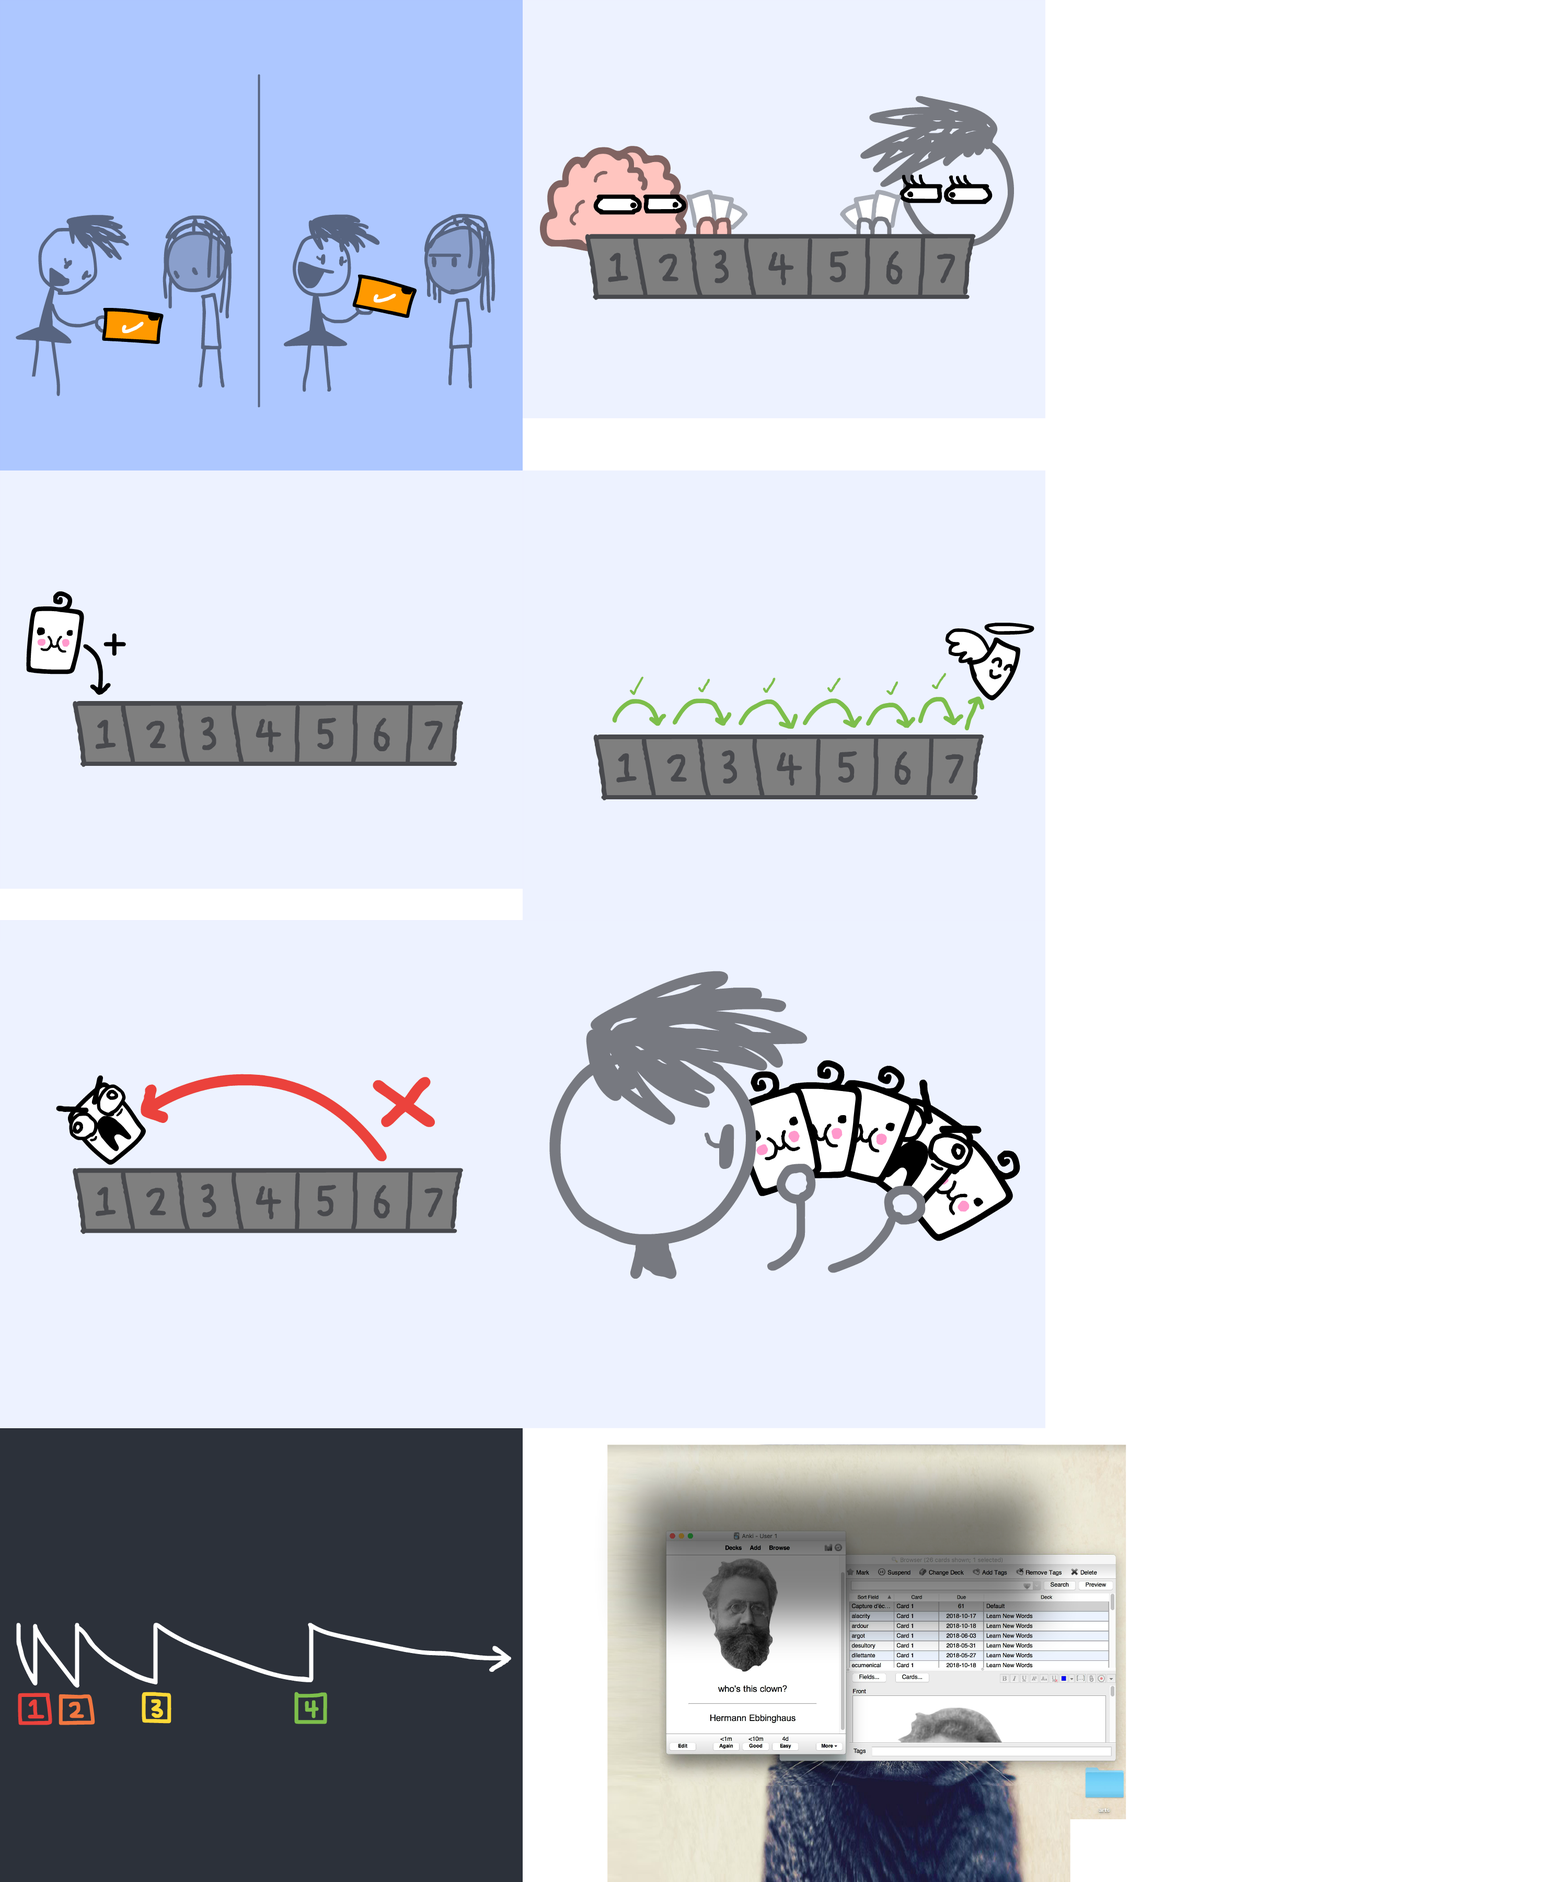
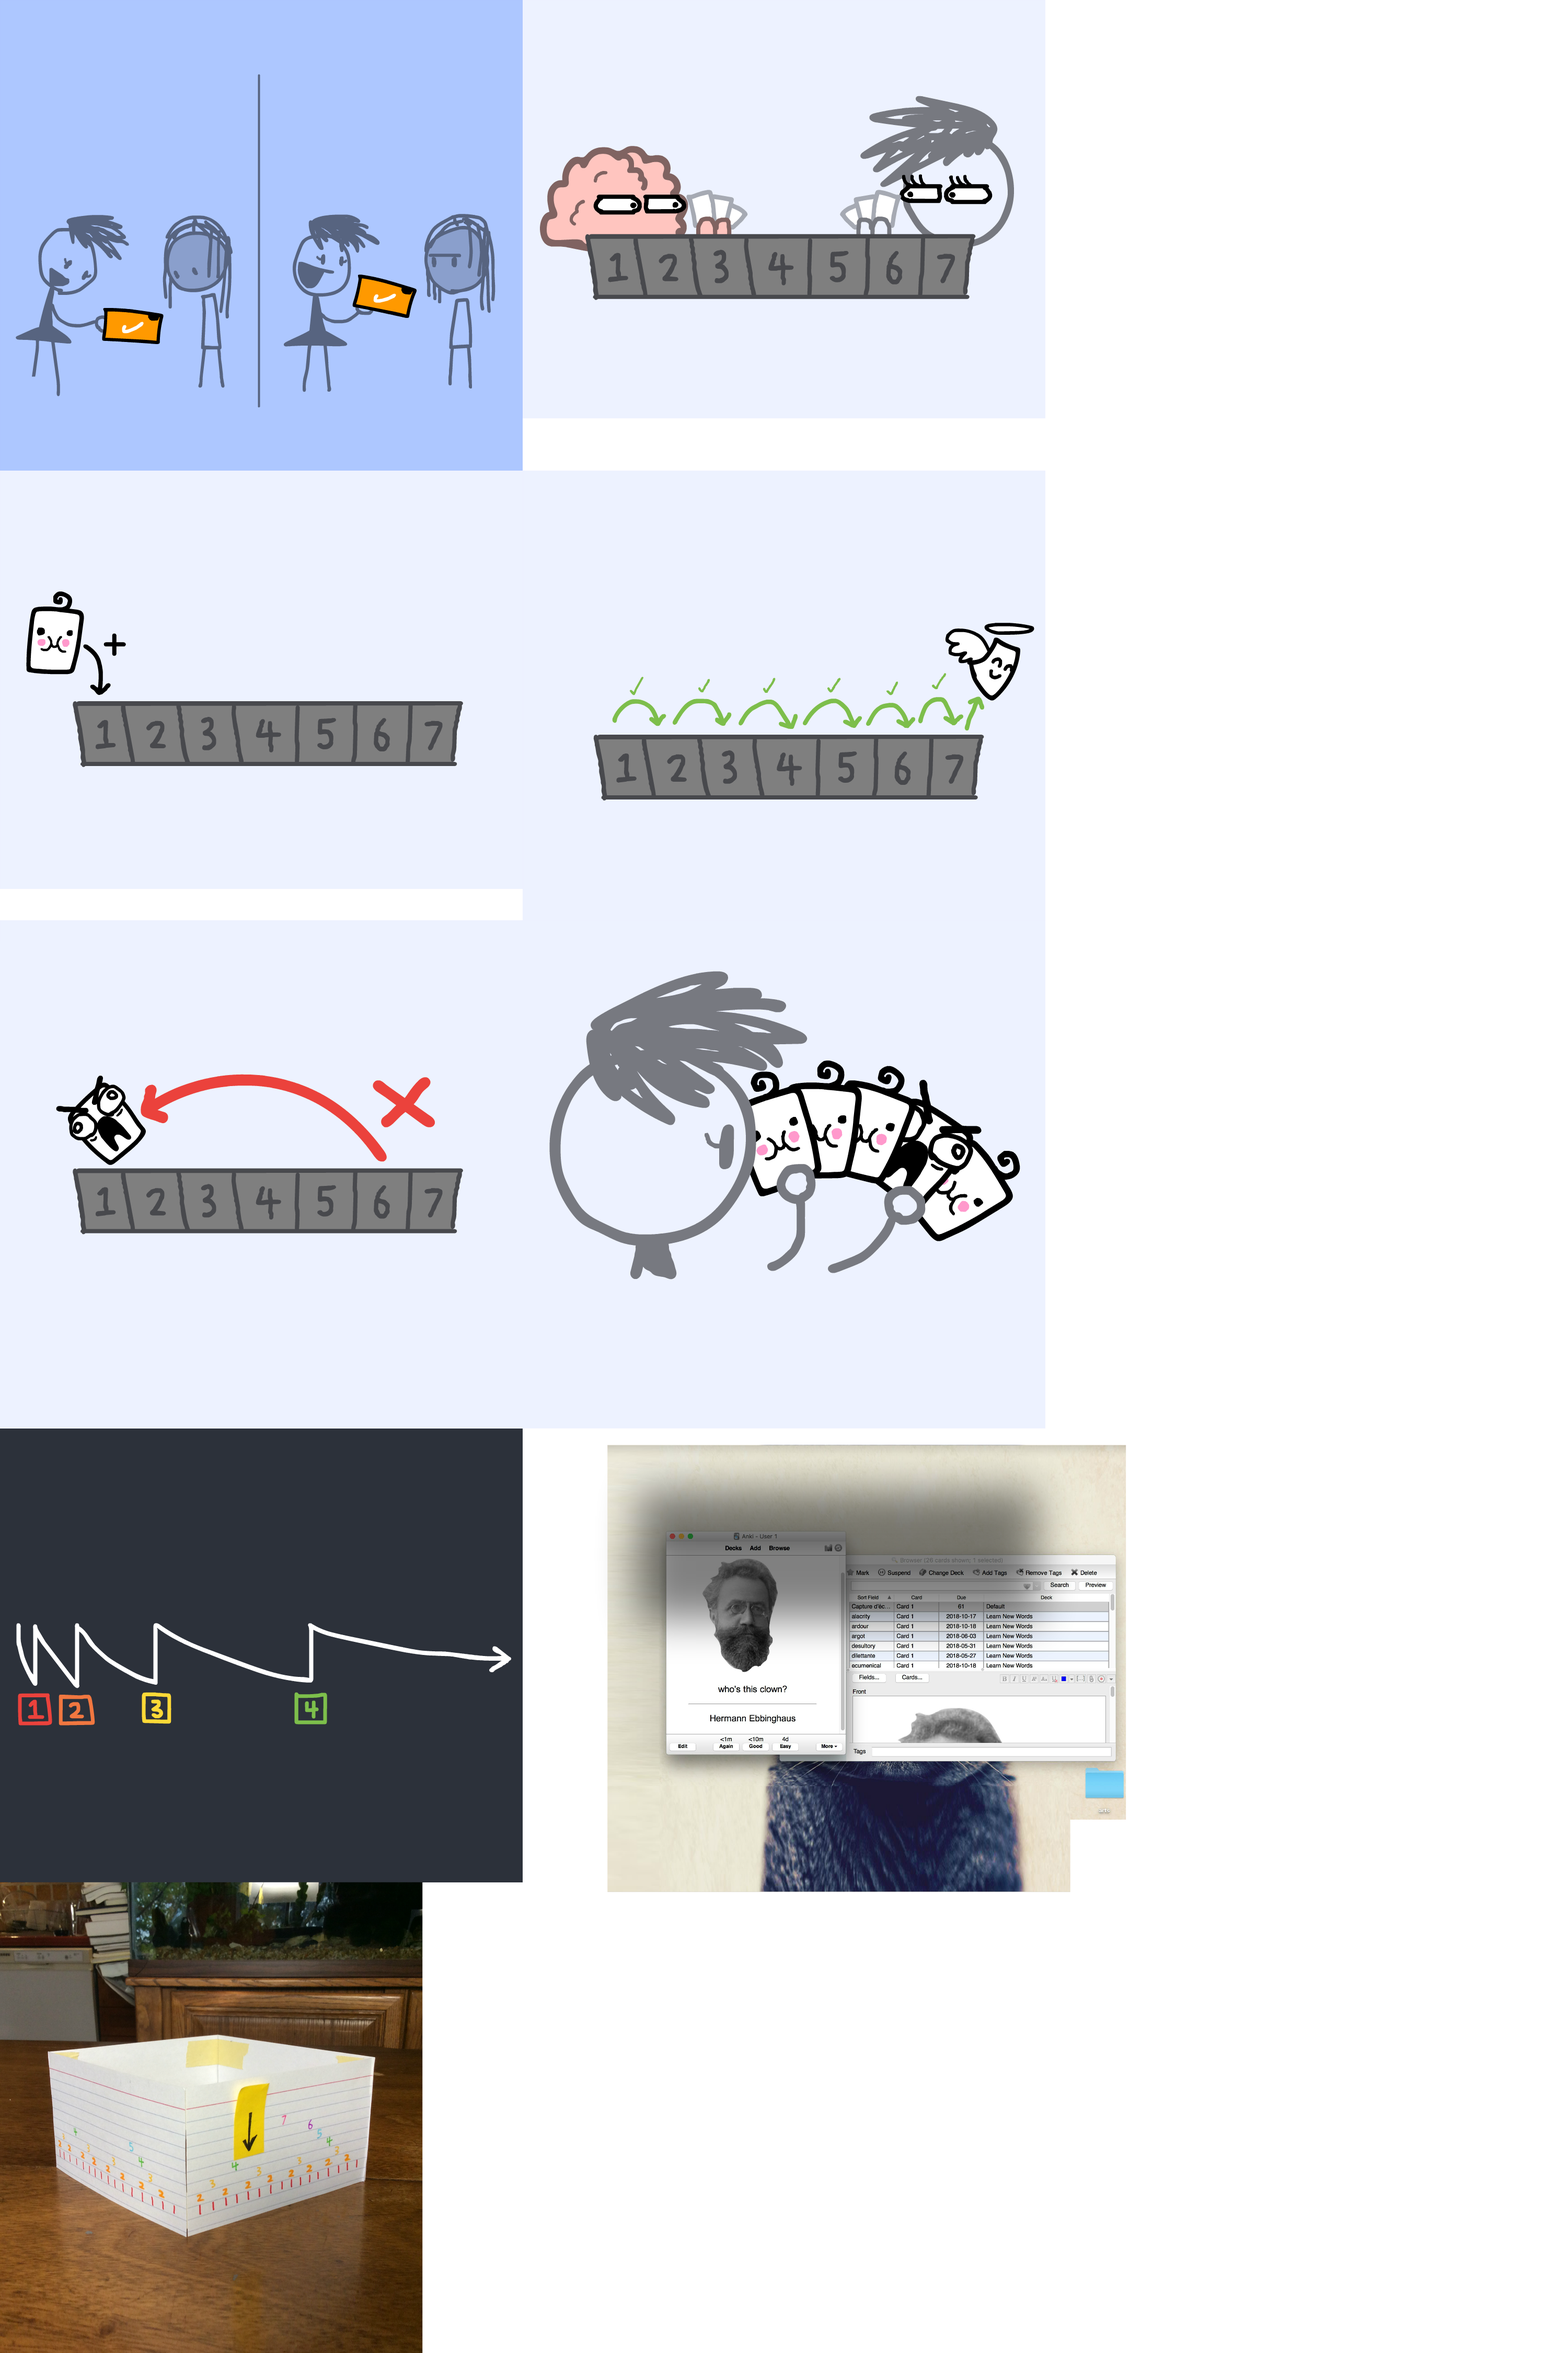
asdsads

diff --git a/index.html b/index.html
@@ -317,7 +317,15 @@ Like so:
 </words>
 <words x=10 y=310 w=350>
 	He found that you forget most of what you learn in the first 24 hours,
-	then – if you don’t practice recall – your remaining memories decay exponentially.
+	then – if you don’t practice recall – your remaining memories decay exponentially.*
+</words>
+</panel>
+
+<panel w=500 h=50 style="margin-top:-5px">
+<words w=500 x=-15 y=-10 no-bg style="width: 500px; font-size:0.8em; text-align: right; color:#999; line-height: 1.1em;">
+* technically the curve isn't <i>exactly</i>
+<br>
+exponential, but, eh, close enough.
 </words>
 </panel>
 
@@ -504,8 +512,8 @@ You need <b>desirable difficulty</b>: the sweet spot of just-hard-enough.
 
 <panel w=600 h=90>
 <words w=600 x=-15 no-bg>
-	See? If you time a recall so that it's right in the sweet spot,
-	you can slow the decay by a lot!
+	See? If you time a recall just right,
+	you can slow down the decay by a bit!
 	Now, what about <i>multiple</i> recalls?
 </words>
 </panel>
@@ -727,14 +735,15 @@ It’s actually so simple, you can even create your own automatic scheduler...
 </words>
 </panel>
 
-<panel w=500 h=370>
+<panel w=500 h=400>
 <pic src="pics/leit0.png" sx=500 sy=0></pic> <!-- poker: me vs brain -->
 <words x=10 y=10 w=430 h=60>
 	This setup is called The Leitner Box.
 	It's like a card game you play against yourself!
 </words>
-<words x=30 y=300 w=430 h=30>
+<words x=30 y=300 w=430 h=60>
 	First, divide your box up into seven "Levels".
+	(You can have more or fewer if you like!)
 </words>
 </panel>
 
@@ -755,7 +764,7 @@ It’s actually so simple, you can even create your own automatic scheduler...
 </words>
 <words x=30 y=300 w=430 h=60>
 	(If you're at the final Level, congrats!
-	Your card gets to retire in your long-term memory)
+	Your card retires. Off it goes, to card heaven.)
 </words>
 </panel>
 
@@ -816,15 +825,26 @@ It’s actually so simple, you can even create your own automatic scheduler...
 	(Note #2: Spaced Repetition <i>apps</i> like Anki use a more sophisticated algorithm...)
 </words>
 <words x=10 y=300 w=350 h=60>
-	(...but at its core, it works on the same principles as the Leitner Box)
+	(...but at its core, they work on the same principles as the Leitner Box)
+</words>
+</panel>
+
+<panel w=400 h=450>
+<pic src="pics/leit0.png" sx=0 sy=1800></pic>
+<words x=10 y=10 w=350 h=90>
+	(Note #3: Oh, and with a few index cards + some tape,
+	you can make your own <i>actual</i> looping calendar!)
+</words>
+<words x=10 y=350 w=350 h=60>
+	(at the end, I'll link to a video tutorial for crafting a Leitner Box)
 </words>
 </panel>
 
 <panel w=600 h=80>
 <words w=600 x=-15 no-bg>
-	And that's all to it!
-	Here's how the game plays out, step by step:
-	(<b>This sim has no end. Once you "get it", just scroll down.</b>)
+	Now, to show the game in action!
+	Here's a <i>step-by-step</i> simulation of the Leitner Box:
+	<b>(we'll see a <i>month-by-month</i> sim later)</b>
 </words>
 </panel>
 
@@ -877,7 +897,7 @@ It’s actually so simple, you can even create your own automatic scheduler...
 
 <panel w=600 h=80>
 <words w=600 x=-15 no-bg>
-	Here's how it plays out, in the long, <i>long</i> run.
+	Now, here's the month-by-month simulation.
 	Use this to calculate in advance how much <i>you</i> can learn with Spaced Repetition!
 </words>
 </panel>
@@ -1837,9 +1857,11 @@ Also, this interactive comic is
 
 meaning you can freely use this thing for educational, personal, or even commercial purposes.
 You already have my permission!
+<a target="_blank" href="https://github.com/ncase/remember">
+(Download the code)</a>
+&nbsp;
 <a target="_blank" href="TODO ADD LINK">
-(Download the full source code on GitHub)
-</a>
+(Translate this comic)</a>
 </p>
 
 <p>
@@ -1917,6 +1939,8 @@ And if you want to learn-by-playing more stuff,
 <a target="_blank" href="https://explorabl.es/">
 check out Explorable Explanations!</a> 🕹
 </p>
+
+<hr>
 
 <hr>
 

diff --git a/sims/leitner/leitner.js b/sims/leitner/leitner.js
@@ -431,7 +431,8 @@ function update(){
 			ctx.textAlign = "center";
 			ctx.textBaseline = "middle";
 			ctx.fillStyle = activeToday ? "#fff": color;
-			ctx.fillText((i+1), w/2, h/2);
+			var num = i<7 ? (i+1) : "👼"; // 8 = RETIRED.
+			ctx.fillText(num, w/2, h/2);
 
 			ctx.restore();
 

diff --git a/css/comic.css b/css/comic.css
@@ -293,8 +293,8 @@ a:hover{
 	position: absolute;
     width: 80px;
     text-align: left;
-    top: 0;
-    left: 10px;
+    top: 8px;
+    left: 520px;
     font-size: 21px;
     line-height: 1.4em;
 

diff --git a/README.md b/README.md
@@ -1,0 +1,73 @@
+!["thumbnail"]()
+
+**[How To Remember Anything Forever-ish](https://ncase.me/remember/)** is dedicated to the public domain,
+and was made possible thanks to [my Patreon supporters](https://www.patreon.com/ncase)! Love y'all~
+
+## Full Asset Credits:
+
+**From Wikimedia Commons:**
+
+* [Mnemosyne](https://en.wikipedia.org/wiki/File:Mnemosyne_(color)_Rossetti.jpg) by Dante Gabriel Rossetti (public domain)
+* Muse paintings ([1](https://en.wikipedia.org/wiki/File:Le_Sueur,_Eustache_-_Melpom%C3%A8ne,_%C3%89rato_et_Polymnie_-_1652_-_1655.jpg), [2](https://en.wikipedia.org/wiki/File:Eustache_Le_Sueur_-_The_Muses_-_Clio,_Euterpe_and_Thalia_-_WGA12611.jpg)) by Eustache de Sueur (public domain)
+* [Outer Space](https://en.wikipedia.org/wiki/File:LH_95.jpg) by NASA (public domain)
+* [Hermann Ebbinghaus](https://commons.wikimedia.org/wiki/File:Ebbinghaus2.jpg) (public domain)
+* [Animal Cell](https://en.wikipedia.org/wiki/File:Animal_Cell.svg) by Kelvin Ma (CC Zero)
+* [Mitochondrion](https://commons.wikimedia.org/wiki/File:Mitochondrion_mini.svg) by Kelvin Ma (CC Zero)
+* [Human Cell Nucleus](https://en.wikipedia.org/wiki/File:Diagram_human_cell_nucleus.svg) by Mariana Ruiz Villarreal (public domain)
+* [Un Chat](https://commons.wikimedia.org/wiki/File:Fr-chat.ogg) by Vion Nicolas (CC-BY)
+
+**From FreeSound.org:**
+
+* [Flipping cards](https://freesound.org/people/cmorris035/sounds/319154/) by cmorris035 (CC Zero)
+* [Fanfare](https://freesound.org/people/plasterbrain/sounds/397355/) by plasterbrain (CC Zero)
+* [Victory](https://freesound.org/people/Chilljeremy/sounds/395482/) by Chilljeremy (CC Zero)
+* [Yay](https://freesound.org/people/Higgs01/sounds/428156/) by Higgs01 (CC Zero)
+* [Ding!](https://freesound.org/people/dersuperanton/sounds/433646/) by dersuperanton (CC BY)
+* [Typing](https://freesound.org/people/Eelke/sounds/158057/) by Eelke (CC BY)
+* [Beeps and Boops](https://freesound.org/people/Owdeo/sounds/116653/) by Owdeo (CC BY-NC)
+* [Applause](https://freesound.org/people/Sandermotions/sounds/277021/) by Sandermotions (CC Zero) 
+
+**Open Source Libraries:**
+
+* [Howler.js](https://howlerjs.com/) for the audio
+* [MinPubSub](https://github.com/daniellmb/MinPubSub) for publish/subscribe
+* [JSZip](https://stuk.github.io/jszip/) and [FileSaver.js](https://github.com/eligrey/FileSaver.js/) for downloading your flashcards as .zip
+
+**Font:** [Patrick Hand](https://fonts.google.com/specimen/Patrick+Hand) by Patrick Wagesreiter
+
+## How To Translate:
+
+**[IMPORTANT:
+BEFORE YOU MAKE A TRANSLATION, CHECK THE "ISSUES" TAB ABOVE,
+TO SEE IF SOMEONE ELSE IS ALREADY WORKING ON IT.
+If so, maybe you can collaborate!
+And if no one else is, PLEASE CREATE A NEW ISSUE in this repo
+so that others know you're working on it!]**
+
+**Translations done so far:**    
+[none]
+
+To translate this project, you'll need a basic familiarity with HTML and GitHub.
+
+**Step 1)** Clone this repo!
+
+**Step 2)** Look up the two-letter code of the language you're translating to [here](https://en.wikipedia.org/wiki/List_of_ISO_639-1_codes).
+
+**Step 3)** *COPY* `index.html`, and name the copy [your-two-letter-code].html. 
+For example: `de.html`, `ar.html`, `zh.html`, etc...
+
+**Step 4)** Translate *THAT* page (it's about 3,500 words). Do NOT modify the original `index.html`!
+
+**Step 5)** Go to `translations.txt`, and add a new section so that the code "knows" your translation exists.
+(more specific instructions will be inside that file)
+
+**Step 6)** Send a Pull Request so I can make your translation go live!
+
+**Step 7)** 🎉 fweeeee
+
+## Zero Rights Reserved
+
+*How To Remember Anything Forever-ish*
+is released under [Creative Commons Zero](https://creativecommons.org/publicdomain/zero/1.0/) / public domain waiver.
+Meaning: you can freely use this thing for educational, personal, or even commercial use.
+You already have my permission! Attribution is appreciated but not legally necessary.
